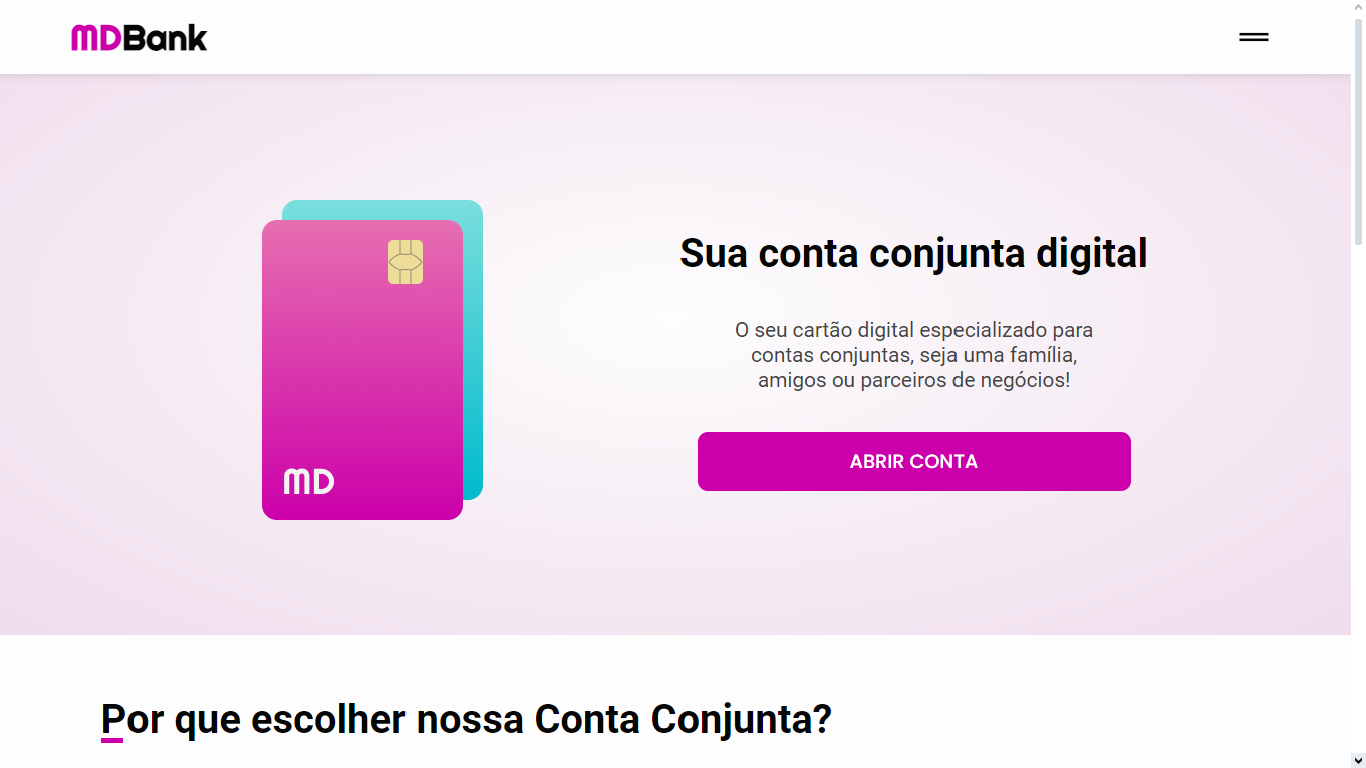
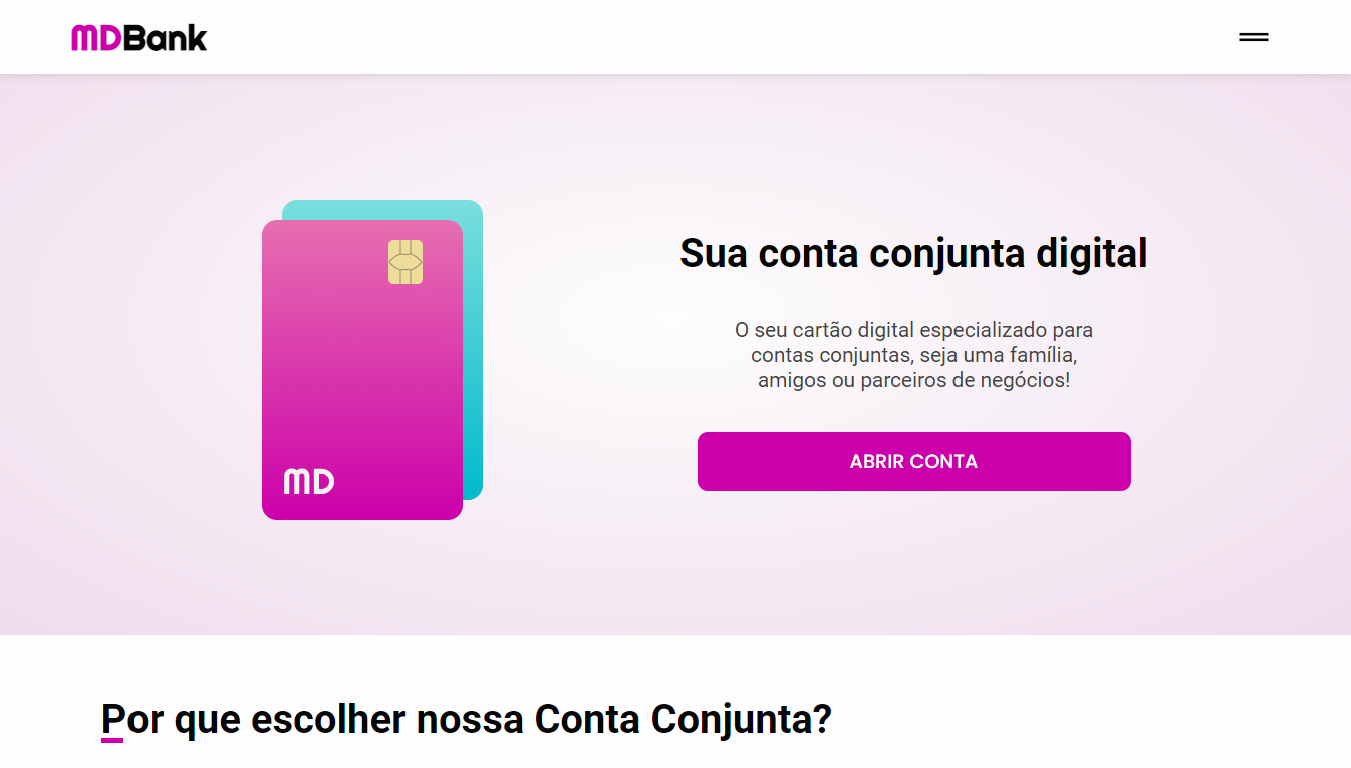
mudanças design

diff --git a/index.html b/index.html
@@ -9,13 +9,15 @@
     <link rel="stylesheet" href="css/style.css">
 </head>
 <body>
-    <header class="header">
-        <span>Portfólio</span>
-        <nav>
-            <ul>
-                <li><a href="#projetos">Projetos</a></li>
-            </ul>
-        </nav>
+    <header class="header-bg">
+        <div class="header container">
+            <span>Portfólio</span>
+            <nav>
+                <ul>
+                    <li><a href="#projetos">Projetos</a></li>
+                </ul>
+            </nav>
+        </div>
     </header>
     <main>
         <div class="apresentacao">
@@ -33,53 +35,53 @@
             </div>
         </div>
 
-        <div class="projetos" id="projetos">
-            <div class="container">
-                <div class="projetos">
+        <section class="projetos-bg" id="projetos">
+            <div class="projetos container">
+                <h2>Projetos</h2>
 
-                    <h2>Projetos</h2>
 
-                    <div class="projeto">
-                        <div class="projeto-imagem">
-                            <img src="imagens/projeto-1.png" alt="">
+                <div class="projeto">
+                    <div class="projeto-imagem">
+                        <img src="imagens/projeto-1.png" alt="">
+                    </div>
+                    <div class="projeto-info">
+                        <h3>Login page</h3>
+                        <p>O projeto tem o objetivo de simular uma tela de login dinâmica</p>
+                        <div class="projeto-tec">
+                            <img src="imagens/html.png" alt="html" width="48" height="48" class="icon">
+                            <img src="imagens/css.png" alt="css" width="48" height="48" class="icon">
+                            <img src="imagens/javascript.png" alt="javascript" width="48" height="48" class="icon">
                         </div>
-                        <div class="projeto-info">
-                            <h3>Login page</h3>
-                            <p>O projeto tem o objetivo de simular uma tela de login dinâmica</p>
-                            <div class="projeto-tec">
-                                <img src="imagens/html.png" alt="html" width="48" height="48">
-                                <img src="imagens/css.png" alt="css" width="48" height="48">
-                                <img src="imagens/javascript.png" alt="javascript" width="48" height="48">
-                            </div>
-                            <div class="projeto-btn">
-                                <a href="https://mateuskleinwilmsen.github.io/pagina-login/" target="_blank">visitar</a>
-                                <a href="https://github.com/mateuskleinwilmsen/pagina-login" target="_blank">código</a>
-                            </div>
+                        <div class="projeto-btn">
+                            <a href="https://mateuskleinwilmsen.github.io/pagina-login/" target="_blank">visitar</a>
+                            <a href="https://github.com/mateuskleinwilmsen/pagina-login" target="_blank">código</a>
                         </div>
                     </div>
-
-                    <div class="projeto">
-                        <div class="projeto-imagem">
-                            <img src="imagens/projeto-2.png" alt="">
-                        </div>
-                        <div class="projeto-info">
-                            <h3>MD bank</h3>
-                            <p>Simula um site de um banco digital especializado em contas conjuntas.</p>
-                            <div class="projeto-tec">
-                                <img src="imagens/html.png" alt="html" width="48" height="48">
-                                <img src="imagens/css.png" alt="css" width="48" height="48">
-                                <img src="imagens/javascript.png" alt="javascript" width="48" height="48">
-                            </div>
-                            <div class="projeto-btn">
-                                <a href="https://mateuskleinwilmsen.github.io/md-bank/" target="_blank">visitar</a>
-                                <a href="https://github.com/mateuskleinwilmsen/md-bank" target="_blank">código</a>
-                            </div>
-                        </div>
-                    </div>
-
                 </div>
+
+
+                <div class="projeto">
+                    <div class="projeto-imagem">
+                        <img src="imagens/projeto-2.png" alt="">
+                    </div>
+                    <div class="projeto-info">
+                        <h3>MD bank</h3>
+                        <p>Simula um site de um banco digital especializado em contas conjuntas.</p>
+                        <div class="projeto-tec">
+                            <img src="imagens/html.png" alt="html" width="48" height="48" class="icon">
+                            <img src="imagens/css.png" alt="css" width="48" height="48" class="icon">
+                            <img src="imagens/javascript.png" alt="javascript" width="48" height="48" class="icon">
+                        </div>
+                        <div class="projeto-btn">
+                            <a href="https://mateuskleinwilmsen.github.io/md-bank/" target="_blank">visitar</a>
+                            <a href="https://github.com/mateuskleinwilmsen/md-bank" target="_blank">código</a>
+                        </div>
+                    </div>
+                </div>
+
+
             </div>
-        </div>
+        </section>
     </main>
 </body>
 </html>

diff --git a/css/projetos.css b/css/projetos.css
@@ -1,92 +1,97 @@
-.projetos{
-    padding: 0px 20px;
-}
-
 .projetos h2{
-    margin-top: 60px;
-    margin-bottom: 50px;
+    padding-top: 60px;
+    padding-bottom: 60px;
+    font-family: 'Poppins', sans-serif;
     font-size: 2rem;
-    text-align: center;
-    font-family: "Poppins";
 }
 
 .projeto{
-    min-height: 300px;
-    max-width: 800px;
+    background-color: #eee;
     display: grid;
-    grid-template-columns: 50% 50%;
-    gap: 10px;
-    margin: 0px auto;
-    margin-bottom: 80px;
+    grid-template-columns: 5fr 3fr;
+    gap: 40px;
+    padding: 32px;
+    border-radius: 8px;
+    max-width: 850px;
+    margin: 0px auto 60px auto;
+    align-items: center;
+}
+
+.projeto-imagem{
+    height: 100%;
 }
 
 .projeto-imagem img{
-    border-radius: 16px;
-    width: 100%;
+    border-radius: 8px;
     height: 100%;
     object-fit: cover;
-    object-position: center center;
 }
 
 .projeto-info{
-    display: flex;
-    flex-direction: column;
-    justify-content: space-around;
-    padding: 10px;
+    display: grid;
+    grid-template-rows: 1fr 2fr 1fr 1fr;
+    align-items: center;
+    height: 100%;
 }
 
 .projeto-info h3{
+    margin-bottom: 20px;
+    font-family: "Poppins", sans-serif;
     font-size: 1.5rem;
     text-align: center;
-} 
+}
 
 .projeto-info p{
-    color: var(--cor-secundaria-texto);
-    font-weight: 500;
-    margin: 10px 0px;
-    font-size: 1.1rem;
-    line-height: 1.4;
-    text-align: center;
+    margin-bottom: 20px;
+    font-family: "Poppins", sans-serif;
+    font-size: 1.125rem;
+    text-align: center; 
 }
 
 .projeto-tec{
     display: flex;
-    gap: 10px;
-    justify-content: center;
-    width: 80%;
-    height: 20%;
-    margin: 0px auto;
-    z-index: -1;
+    gap: 20px;
+    margin-bottom: 20px;
+    margin-left: auto;
+    margin-right: auto;
 }
 
-.projeto-tec img{
-    scale: 80%;
-    border-radius: 50%;
-}
-
-.projeto-btn{
+.projeto-btn {
     display: flex;
-    justify-content: space-around;
+    gap: 32px;    
+    margin-left: auto;
+    margin-right: auto;
 }
 
 .projeto-btn a{
-    text-decoration: none;
-    font-size: 1.3rem;
-    font-weight: 600;
+    font-family: "Poppins", sans-serif;
+    font-size: 1.25rem;
     color: var(--cor-primaria-texto);
+    font-weight: 600;
+    text-decoration: none;
 }
 
-@media (max-width:900px) {  
+@media (max-width: 900px) {
     .projeto{
-        max-width: 500px;
+        gap: 20px;
+    }
+    .projeto-info h3{
+        font-size: 1.25rem;
+    }
+    .projeto-btn a{
+        font-family: "Poppins", sans-serif;
+        font-size: 1.125rem;
+    }
+
+    .projeto-info p{
+        margin-bottom: 20px;
+        font-family: "Poppins", sans-serif;
+        font-size: 1rem;
+    }
+}
+
+@media (max-width: 600px) {
+    .projeto{
         grid-template-columns: 1fr;
-    }
-
-    .projeto-imagem{
-        height: 310px;
-    }
-
-    .projeto-info{
-        height: 250px;
     }
 }

diff --git a/css/header.css b/css/header.css
@@ -1,13 +1,17 @@
-.header{
-    display: flex;
-    flex-wrap: wrap;
+.header-bg{
     position: fixed;
-    width: calc(100% - 80px);
+    box-sizing: border-box;
+    width: 100%;
     top: 0px;
     left: 0px;
     background-color: white;
     box-shadow: 0px 0px 8px rgba(0, 0, 0, 0.25);
     border-radius: 0px 0px 35px 35px;
+}
+
+.header{
+    display: flex;
+    flex-wrap: wrap;
     align-items: center;
     justify-content: space-between;
     padding: 0px 40px;
@@ -20,12 +24,12 @@
     font-weight: 700;
 }
 
-header > nav > ul{
+header ul{
     display: flex;
     margin: 8px 0px;
 }
 
-header > nav > ul > li{
+header li{
     display: inline-flex;
 }
 
@@ -46,7 +50,7 @@ header a:hover{
 }
 
 @media (max-width: 500px) {
-    .header > div{
+    .header div{
         justify-content: center;
     }
 } 

diff --git a/css/global.css b/css/global.css
@@ -16,5 +16,25 @@ html{
 
 .container{
     max-width: 1200px;
-    margin: 0 auto;
+    margin-left: auto;
+    margin-right: auto;
+    box-sizing: border-box;
+    padding: 0px 20px;
+}
+
+img{
+    width: 100%;
+}
+
+.icon{
+    width: 36px;
+    height: 36px;
+    border-radius: 50%;
+}
+
+@media (max-width: 900px) {
+    .icon{
+        width: 32px;
+        height: 32px;
+    }
 }

diff --git a/css/apresentacao.css b/css/apresentacao.css
@@ -26,6 +26,8 @@
 #redes-sociais{
     padding-left: 100px;
     padding-bottom: 50px;
+    display: flex;
+    gap: 12px;
 }
 
 #redes-sociais a{
@@ -33,12 +35,12 @@
     width: 40px;
     height: 40px;
     display: inline-block;
-    overflow: hidden;
 }
 
 #redes-sociais > a > img{
     width: 40px;
     height: 40px;
+    border-radius: 50%;
 }
 
 @media (max-width:900px) {
